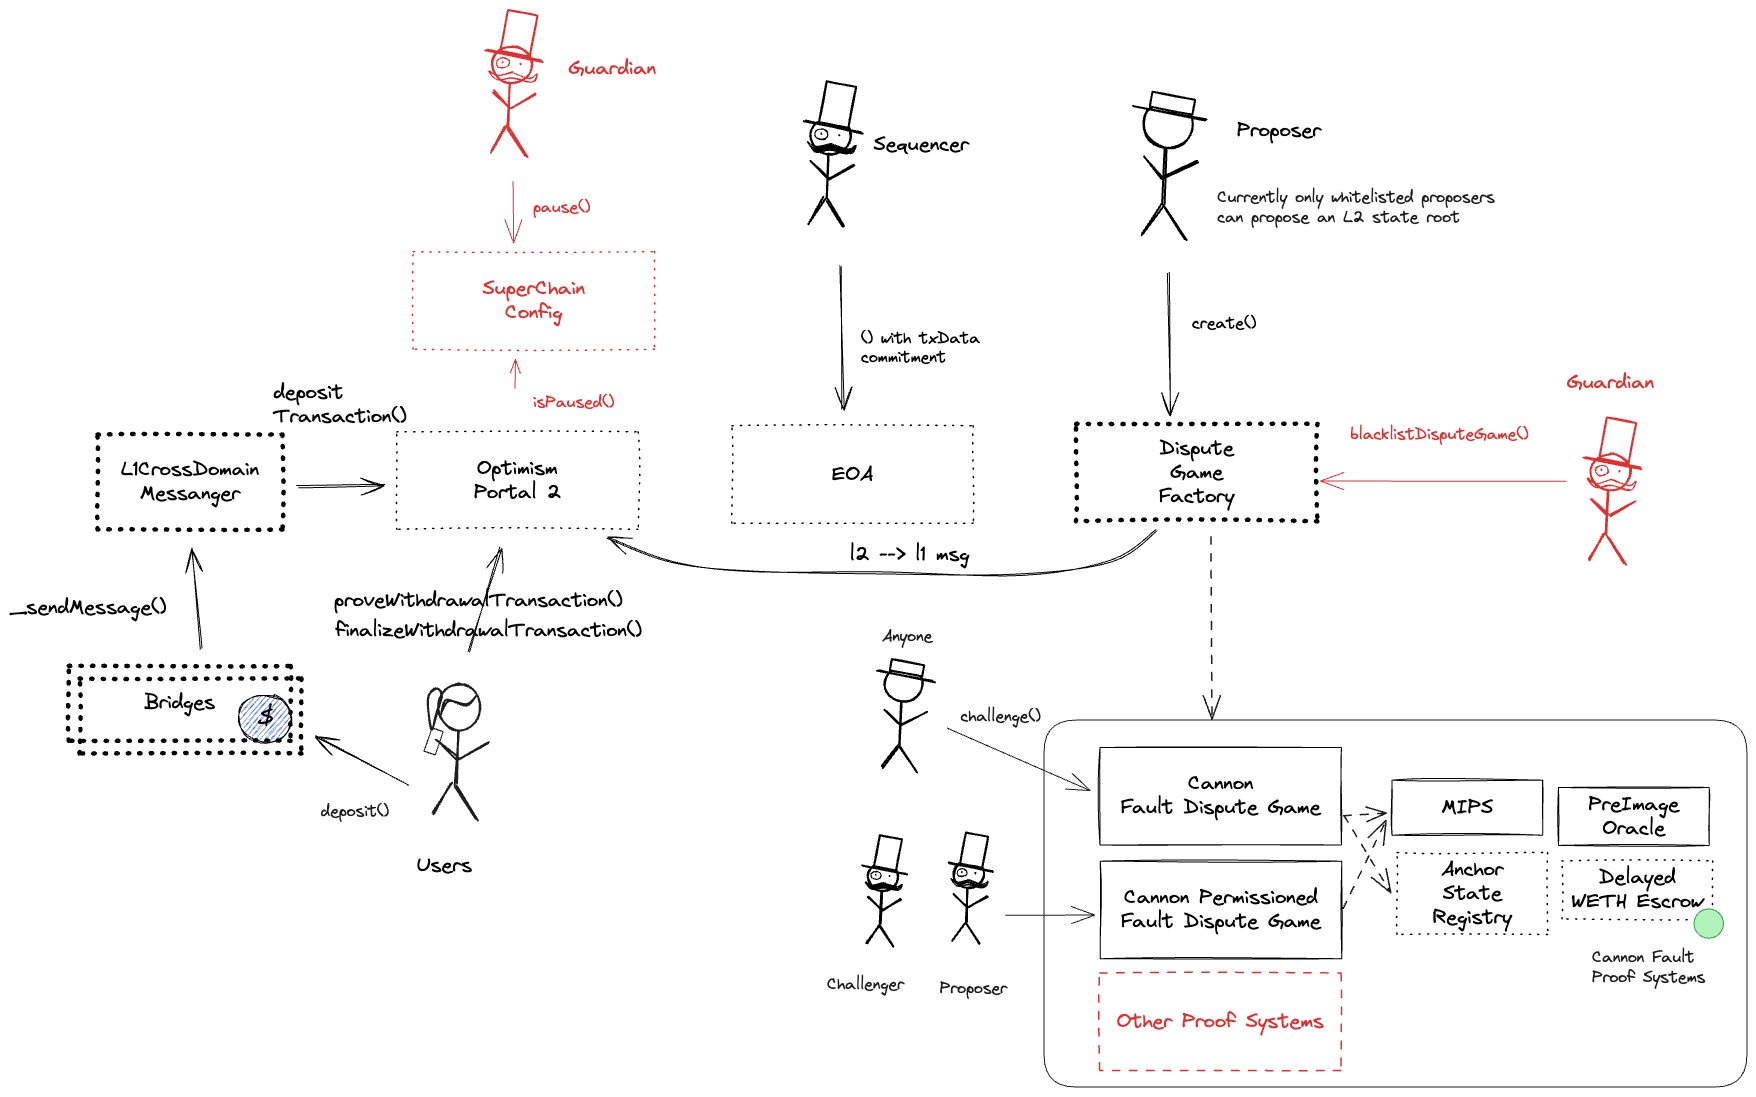
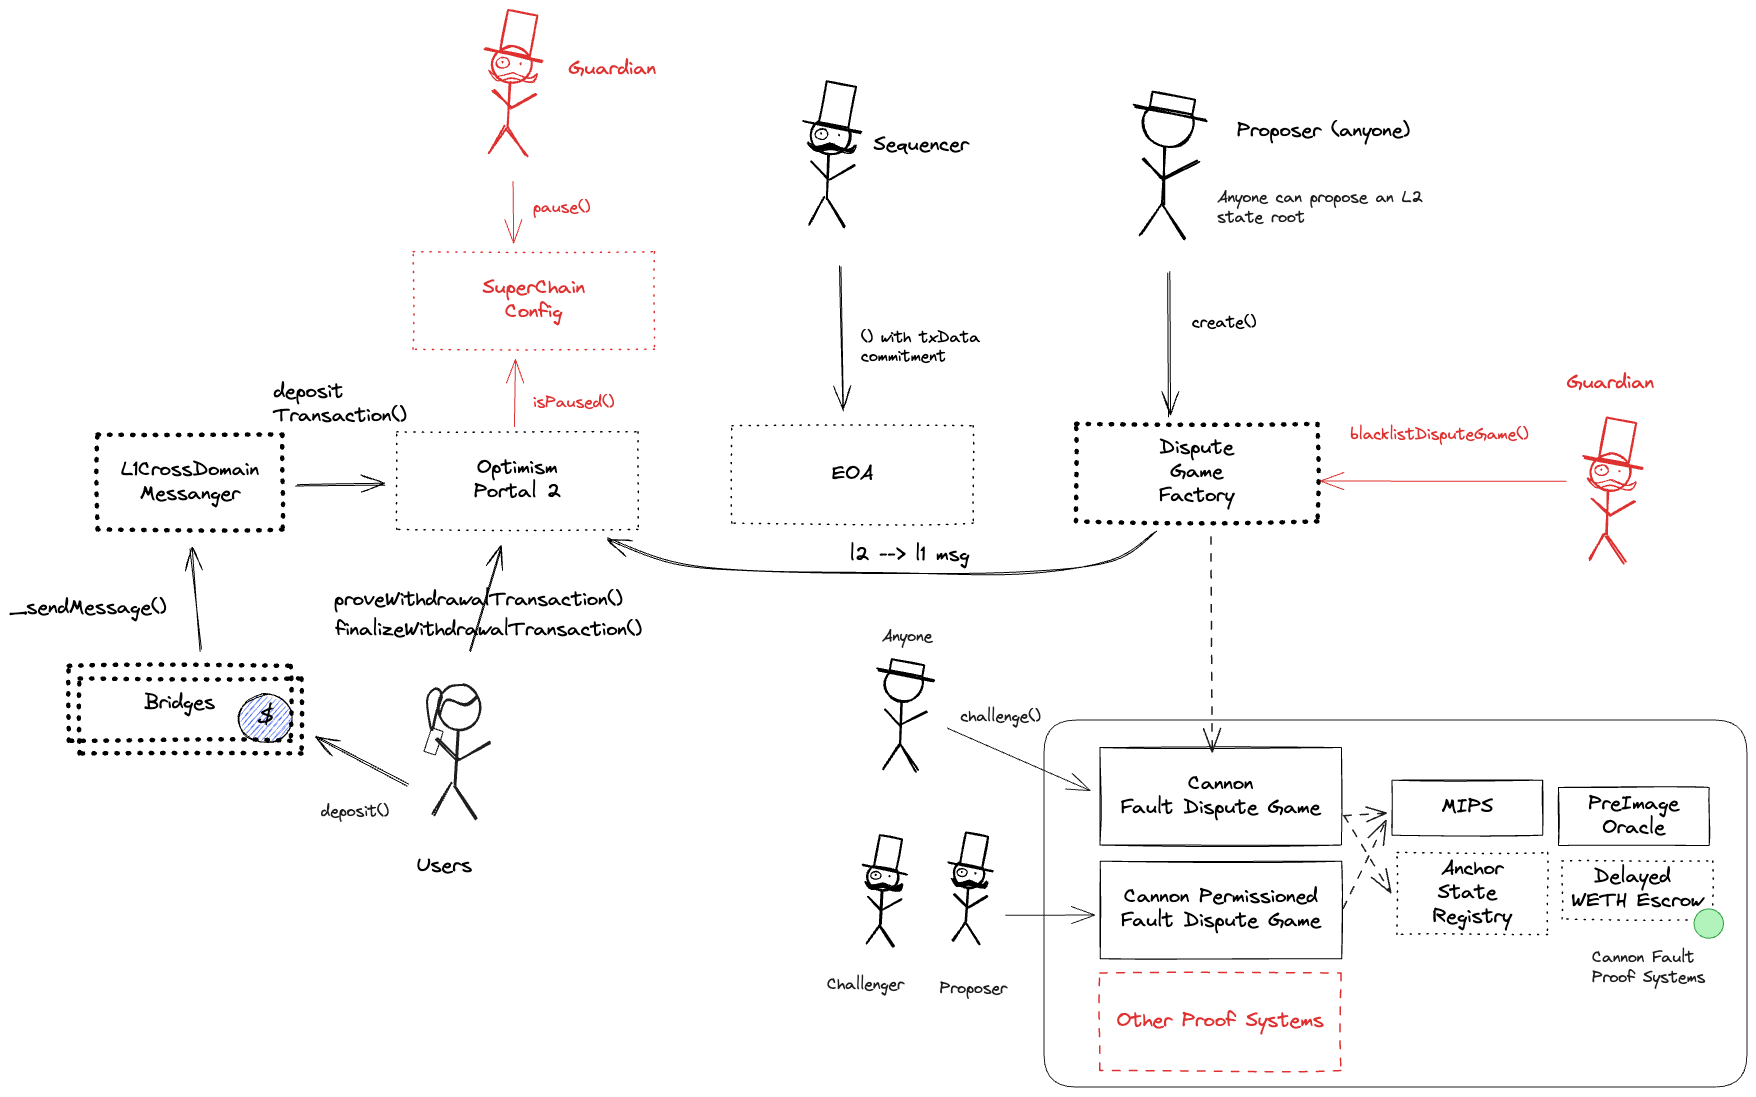
Ink is now Stage 1 (#6479)

diff --git a/packages/config/src/projects/layer2s/ink.ts b/packages/config/src/projects/layer2s/ink.ts
@@ -75,41 +75,42 @@ const proofMaturityDelaySeconds = discovery.getContractValue<number>(
 
 const portal = discovery.getContract('OptimismPortal2')
 
-// >>> NOTE: THE VALUES BELOW ARE JUST FOR PERMISSIONED GAMES !!! UPDATE IF IT CHANGES
+// >>> NOTE: THE VALUES BELOW ARE JUST FOR PERMISSIONLESS GAMES !!! UPDATE IF IT CHANGES
 assert(
   discovery.getContractValue<number>('OptimismPortal2', 'respectedGameType') ===
-    1,
+    0,
 )
 
-const permissionedDisputeGameBonds = discovery.getContractValue<number[]>(
+const permissionlessDisputeGameBonds = discovery.getContractValue<number[]>(
   'DisputeGameFactory',
   'initBonds',
-)[1] // 1 is for permissioned games!
+)[0] // 0 is for permissionless games!
 
-const permissionedGameClockExtension = discovery.getContractValue<number>(
+const permissionlessGameClockExtension = discovery.getContractValue<number>(
   'PermissionedDisputeGame',
   'clockExtension',
 )
 
 const exponentialBondsFactor = 1.09493 // hardcoded, from https://specs.optimism.io/fault-proof/stage-one/bond-incentives.html?highlight=1.09493#bond-scaling
 
-const permissionedGameMaxDepth = discovery.getContractValue<number>(
-  'PermissionedDisputeGame',
+const permissionlessGameMaxDepth = discovery.getContractValue<number>(
+  'FaultDisputeGame',
   'maxGameDepth',
 )
 
-const permissionedGameSplitDepth = discovery.getContractValue<number>(
-  'PermissionedDisputeGame',
+const permissionlessGameSplitDepth = discovery.getContractValue<number>(
+  'FaultDisputeGame',
   'splitDepth',
 )
 
-const permissionedGameFullCost = (() => {
+const permissionlessGameFullCost = (() => {
   let cost = 0
   const scaleFactor = 100000
-  for (let i = 0; i <= permissionedGameMaxDepth; i++) {
+  for (let i = 0; i <= permissionlessGameMaxDepth; i++) {
     cost =
       cost +
-      (permissionedDisputeGameBonds / scaleFactor) * exponentialBondsFactor ** i
+      (permissionlessDisputeGameBonds / scaleFactor) *
+        exponentialBondsFactor ** i
   }
   return BigNumber.from(cost).mul(BigNumber.from(scaleFactor))
 })()
@@ -119,10 +120,10 @@ const oracleChallengePeriod = discovery.getContractValue<number>(
   'challengePeriod',
 )
 
-const permissionedGameMaxClockExtension =
-  permissionedGameClockExtension * 2 + // at SPLIT_DEPTH - 1
+const permissionlessGameMaxClockExtension =
+  permissionlessGameClockExtension * 2 + // at SPLIT_DEPTH - 1
   oracleChallengePeriod + // at MAX_GAME_DEPTH - 1
-  permissionedGameClockExtension * (permissionedGameMaxDepth - 3) // the rest, excluding also the last depth
+  permissionlessGameClockExtension * (permissionlessGameMaxDepth - 3) // the rest, excluding also the last depth
 
 export const ink: Layer2 = {
   type: 'layer2',
@@ -240,15 +241,9 @@ export const ink: Layer2 = {
         discovery.getContractValue<number>(
           'OptimismPortal2',
           'respectedGameType',
-        ) === 1,
+        ) === 0,
       )
-      return {
-        ...RISK_VIEW.STATE_FP_INT,
-        description:
-          RISK_VIEW.STATE_FP_INT.description +
-          ` Only one entity is currently allowed to propose and submit challenges, as only permissioned games are currently allowed.`,
-        sentiment: 'bad',
-      }
+      return RISK_VIEW.STATE_FP_INT
     })(),
     dataAvailability: RISK_VIEW.DATA_ON_CHAIN,
     exitWindow: RISK_VIEW.EXIT_WINDOW(0, FINALIZATION_PERIOD_SECONDS),
@@ -263,9 +258,9 @@ export const ink: Layer2 = {
         discovery.getContractValue<number>(
           'OptimismPortal2',
           'respectedGameType',
-        ) === 1,
+        ) === 0,
       )
-      return RISK_VIEW.PROPOSER_CANNOT_WITHDRAW
+      return RISK_VIEW.PROPOSER_SELF_PROPOSE_ROOTS
     })(),
   },
   technology: {
@@ -380,14 +375,13 @@ export const ink: Layer2 = {
   },
   //stateDerivation: DERIVATION.OPSTACK('INK'),
   stateValidation: {
-    // NOTE THAT DESCRIPTIONS ARE SLIGHTLY MODIFIED BECAUSE PERMISSIONED
     description:
-      'Currently, updates to the system state can only be proposed and challenged by the same entity as the proof system is permissioned. If a state root passes the challenge period, it is optimistically considered correct and made actionable for withdrawals.',
+      'Updates to the system state can be proposed and challenged by anyone who has sufficient funds. If a state root passes the challenge period, it is optimistically considered correct and made actionable for withdrawals.',
     categories: [
       {
         title: 'State root proposals',
         description: `Proposers submit state roots as children of the latest confirmed state root (called anchor state), by calling the \`create\` function in the DisputeGameFactory. A state root can have multiple conflicting children. Each proposal requires a stake, currently set to ${formatEther(
-          permissionedDisputeGameBonds,
+          permissionlessDisputeGameBonds,
         )} ETH, that can be slashed if the proposal is proven incorrect via a fraud proof. Stakes can be withdrawn only after the proposal has been confirmed. A state root gets confirmed if the challenge period has passed and it is not countered.`,
         references: [
           {
@@ -398,22 +392,22 @@ export const ink: Layer2 = {
       },
       {
         title: 'Challenges',
-        description: `Challenges are opened to disprove invalid state roots using bisection games. Each bisection move requires a stake that increases expontentially with the depth of the bisection, with a factor of ${exponentialBondsFactor}. The maximum depth is ${permissionedGameMaxDepth}, and reaching it therefore requires a cumulative stake of ${parseFloat(
-          formatEther(permissionedGameFullCost),
+        description: `Challenges are opened to disprove invalid state roots using bisection games. Each bisection move requires a stake that increases expontentially with the depth of the bisection, with a factor of ${exponentialBondsFactor}. The maximum depth is ${permissionlessGameMaxDepth}, and reaching it therefore requires a cumulative stake of ${parseFloat(
+          formatEther(permissionlessGameFullCost),
         ).toFixed(
           2,
         )} ETH from depth 0. Actors can participate in any challenge by calling the \`defend\` or \`attack\` functions, depending whether they agree or disagree with the latest claim and want to move the bisection game forward. Actors that disagree with the top-level claim are called challengers, and actors that agree are called defenders. Each actor might be involved in multiple (sub-)challenges at the same time, meaning that the protocol operates with [full concurrency](https://medium.com/l2beat/fraud-proof-wars-b0cb4d0f452a). Challengers and defenders alternate in the bisection game, and they pass each other a clock that starts with ${formatSeconds(
           maxClockDuration,
         )}. If a clock expires, the claim is considered defeated if it was countered, or it gets confirmed if uncountered. Since honest parties can inherit clocks from malicious parties that play both as challengers and defenders (see [freeloader claims](https://specs.optimism.io/fault-proof/stage-one/fault-dispute-game.html#freeloader-claims)), if a clock gets inherited with less than ${formatSeconds(
-          permissionedGameClockExtension,
+          permissionlessGameClockExtension,
         )}, it generally gets extended by ${formatSeconds(
-          permissionedGameClockExtension,
+          permissionlessGameClockExtension,
         )} with the exception of ${formatSeconds(
-          permissionedGameClockExtension * 2,
-        )} right before depth ${permissionedGameSplitDepth}, and ${formatSeconds(
+          permissionlessGameClockExtension * 2,
+        )} right before depth ${permissionlessGameSplitDepth}, and ${formatSeconds(
           oracleChallengePeriod,
         )} right before the last depth. The maximum clock extension that a top level claim can get is therefore ${formatSeconds(
-          permissionedGameMaxClockExtension,
+          permissionlessGameMaxClockExtension,
         )}. Since unconfirmed state roots are independent of one another, users can decide to exit with a subsequent confirmed state root if the previous one is delayed. Winners get the entire losers' stake, meaning that sybils can potentially play against each other at no cost. The final instruction found via the bisection game is then executed onchain in the MIPS one step prover contract who determines the winner. The protocol does not enforce valid bisections, meaning that actors can propose correct initial claims and then provide incorrect midpoints. The protocol can be subject to resource exhaustion attacks ([Spearbit 5.1.3](https://github.com/ethereum-optimism/optimism/blob/develop/docs/security-reviews/2024_08_report-cb-fault-proofs-non-mips.pdf)).`,
         references: [
           {
@@ -433,14 +427,14 @@ export const ink: Layer2 = {
     },
     stage1: {
       stateVerificationOnL1: true,
-      fraudProofSystemAtLeast5Outsiders: false,
+      fraudProofSystemAtLeast5Outsiders: true,
       usersHave7DaysToExit: true,
-      usersCanExitWithoutCooperation: false,
+      usersCanExitWithoutCooperation: true,
       securityCouncilProperlySetUp: true,
     },
     stage2: {
       proofSystemOverriddenOnlyInCaseOfABug: false,
-      fraudProofSystemIsPermissionless: false,
+      fraudProofSystemIsPermissionless: true,
       delayWith30DExitWindow: false,
     },
   }),
@@ -463,7 +457,14 @@ export const ink: Layer2 = {
       },
     ],
   },
-  milestones: [],
+  milestones: [
+    {
+      name: 'Ink becomes Stage 1',
+      link: 'https://app.blocksec.com/explorer/tx/eth/0x20fdc1a418ba706e35ade3a2bf1e4c9198c3c62e79d1b688fd951b900d065c27',
+      date: '2025-01-22T00:00:00Z',
+      type: 'general',
+    },
+  ],
   permissions: discovery.getDiscoveredPermissions(),
   contracts: {
     addresses: discovery.getDiscoveredContracts(),

diff --git a/packages/backend/discovery/ink/ethereum/diffHistory.md b/packages/backend/discovery/ink/ethereum/diffHistory.md
@@ -1,3 +1,35 @@
+Generated with discovered.json: 0x7a36e6d5d5f232b9a210ec340cdc53833f64658d
+
+# Diff at Wed, 22 Jan 2025 22:51:41 GMT:
+
+- author: Luca Donno (<donnoh99@gmail.com>)
+- comparing to: main@af6bc3140c90ba5793649c2811c2989f199e73e5 block: 21629240
+- current block number: 21683128
+
+## Description
+
+Ink is now Stage 1.
+
+## Watched changes
+
+```diff
+    contract OptimismPortal2 (0x5d66C1782664115999C47c9fA5cd031f495D3e4F) {
+    +++ description: The OptimismPortal contract is the main entry point to deposit funds from L1 to L2. It also allows to prove and finalize withdrawals. It specifies which game type can be used for withdrawals, which currently is the FaultDisputeGame.
+      description:
+-        "The OptimismPortal contract is the main entry point to deposit funds from L1 to L2. It also allows to prove and finalize withdrawals. It specifies which game type can be used for withdrawals, which currently is the PermissionedDisputeGame."
++        "The OptimismPortal contract is the main entry point to deposit funds from L1 to L2. It also allows to prove and finalize withdrawals. It specifies which game type can be used for withdrawals, which currently is the FaultDisputeGame."
+      values.RespectedGameString:
+-        "PermissionedDisputeGame"
++        "FaultDisputeGame"
+      values.respectedGameType:
+-        1
++        0
+      values.respectedGameTypeUpdatedAt:
+-        1733498411
++        1737576635
+    }
+```
+
 Generated with discovered.json: 0x7fbbe7990799ca381049246d6e54e8f8710ac1b3
 
 # Diff at Tue, 21 Jan 2025 11:19:02 GMT:
